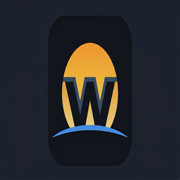
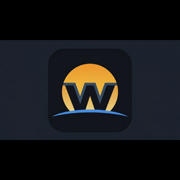
checkpoint (wellness-tracker,wellness-tracker-ios) [2026-04-12 16:56]

diff --git a/portfolio/wellness-tracker/CHANGELOG.md b/portfolio/wellness-tracker/CHANGELOG.md
@@ -11,6 +11,7 @@
 
 ## [Unreleased]
 
+- **Branding / PWA:** corrected master + derived icons to **1024×1024** square (fixes Xcode App Icon validation when syncing from non-square sources).
 - **Branding / PWA:** unified **W + sunrise** mark recolored to **Clarity family** palette (`#0e1015` canvas, blue horizon, amber sun — tokens per YNAB Clarity `ClarityTheme`; Spend Clarity CLI has no logo in-repo); refreshed `public/logo-*.png`, `apple-touch-icon`, `favicon-32`, `manifest.json` (`theme_color` / `background_color` `#0e1015`), `index.html` `theme-color`. Specs in `docs/BRANDING.md`. Added per-app [HANDOFF.md](HANDOFF.md).
 - **Monorepo:** app path is `portfolio/wellness-tracker` under `~/Developer/chase`; README, ROADMAP, AGENTS, `docs/ARCHITECTURE`, `docs/LEARNING`; Linear project linked in docs.
 - **Native iOS (Phase 1):** companion app at [`portfolio/wellness-tracker-ios`](../wellness-tracker-ios) — morning/evening check-in, **`chase_wellness_ios_*`** UserDefaults, **no cloud sync**; see that folder’s `CLAUDE.md` / `README.md`.

diff --git a/portfolio/wellness-tracker-ios/LEARNINGS.md b/portfolio/wellness-tracker-ios/LEARNINGS.md
@@ -20,6 +20,12 @@
 
 ## Entries
 
+### 2026-04-12 — AppIcon must be exactly 1024×1024
+**What happened:** Xcode reported *AppIcon … did not have any applicable content* and Swift compile failed.
+**Root cause:** `AppIcon.png` was **1376×768** (non-square). iOS asset catalogs reject that for the single-size icon slot.
+**Fix / lesson:** `sips -Z 1024` then `sips -p 1024 1024` to letterbox/pad to a square; add **`ios-marketing`** 1024 entry alongside **`universal`** in `Contents.json`. See `docs/BRANDING.md` on web mirror.
+**Tags:** xcode, assets
+
 ### 2026-04-12 — App icon palette = Clarity family, not Spend Clarity raster
 **What happened:** Branding asked to match “Spend Clarity” logo colors; Spend Clarity has no logo file in git.
 **Root cause:** Clarify toolchain: **YNAB Clarity** owns the consumer visual tokens (`ClarityTheme.swift`).

diff --git a/portfolio/wellness-tracker-ios/CHANGELOG.md b/portfolio/wellness-tracker-ios/CHANGELOG.md
@@ -2,6 +2,7 @@
 
 ## [Unreleased]
 
+- **App icon:** fixed **1024×1024** square requirement (was 1376×768; Xcode “no applicable content”); `Contents.json` now includes `universal` + `ios-marketing` slots. Web `public/logo-*.png` re-synced from corrected master.
 - **App icon:** `AppIcon.appiconset/AppIcon.png` — **W + sunrise** on Clarity-family `#0e1015` (see web `docs/BRANDING.md`). Added [HANDOFF.md](./HANDOFF.md) for iOS session notes.
 - **Phase 2 foundation:** replaced single-screen root with native `TabView` shell (`Check-in`, `Tasks`, `Time`, `Capture`) so daily workflows can expand incrementally from a stable app structure.
 - **First parity slice shipped:** added native `Tasks`, `Time`, and quick `Win`/`Pulse` capture tabs backed by `WellnessStore` mutations and existing blob persistence.

diff --git a/portfolio/wellness-tracker/docs/BRANDING.md b/portfolio/wellness-tracker/docs/BRANDING.md
@@ -34,3 +34,5 @@ Unified logo for **web (PWA)** and **native iOS**:
 ## Regenerating or editing
 
 Design iterations may live under the Cursor workspace `assets/` folder during exploration; when a new canonical mark is chosen, export **1024×1024** and replace the paths above, then re-run `sips` (or your tool) to refresh `logo192` / `logo512` / `apple-touch-icon` / `favicon-32` from the new master.
+
+**Xcode requirement:** `AppIcon.png` must be **exactly 1024×1024** (square). Non-square exports cause *“AppIcon … did not have any applicable content”*. If the source is widescreen, scale with longest edge 1024 then **pad** to 1024×1024 (e.g. `sips -Z 1024` then `sips -p 1024 1024`). `Contents.json` should include both **`universal`** and **`ios-marketing`** 1024×1024 entries (same file is fine).
